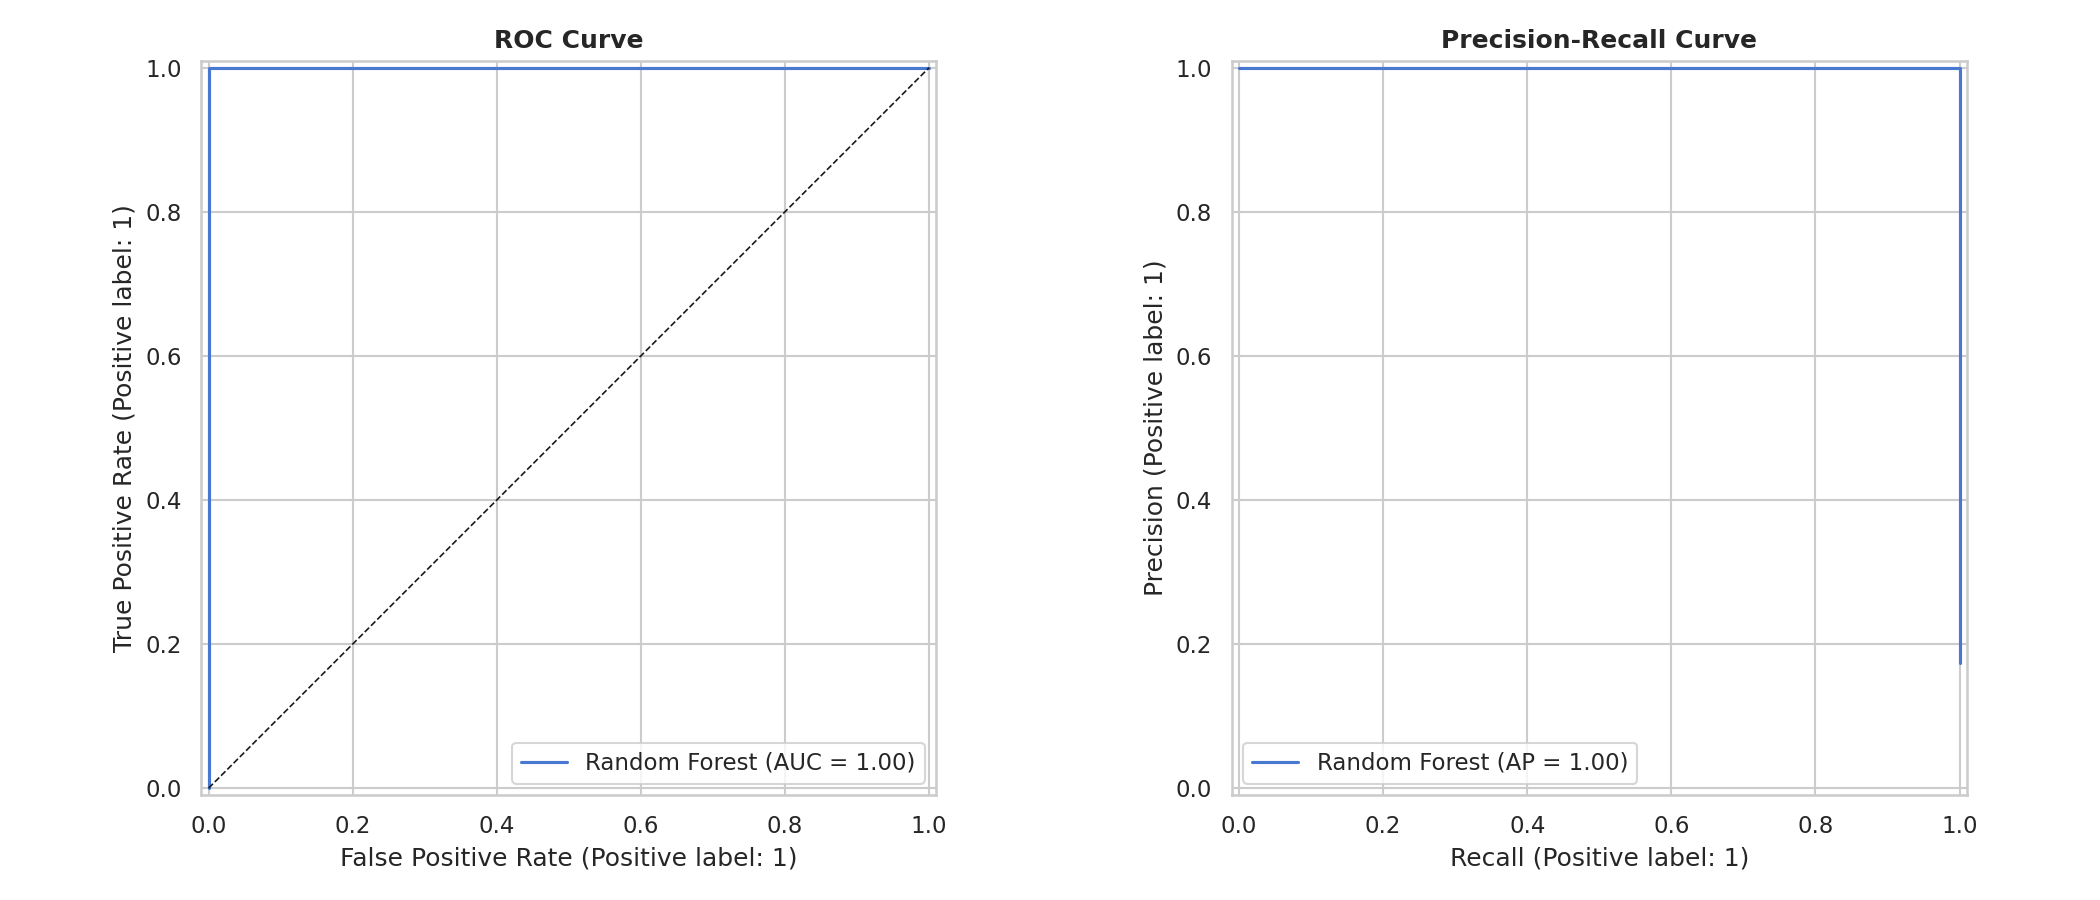
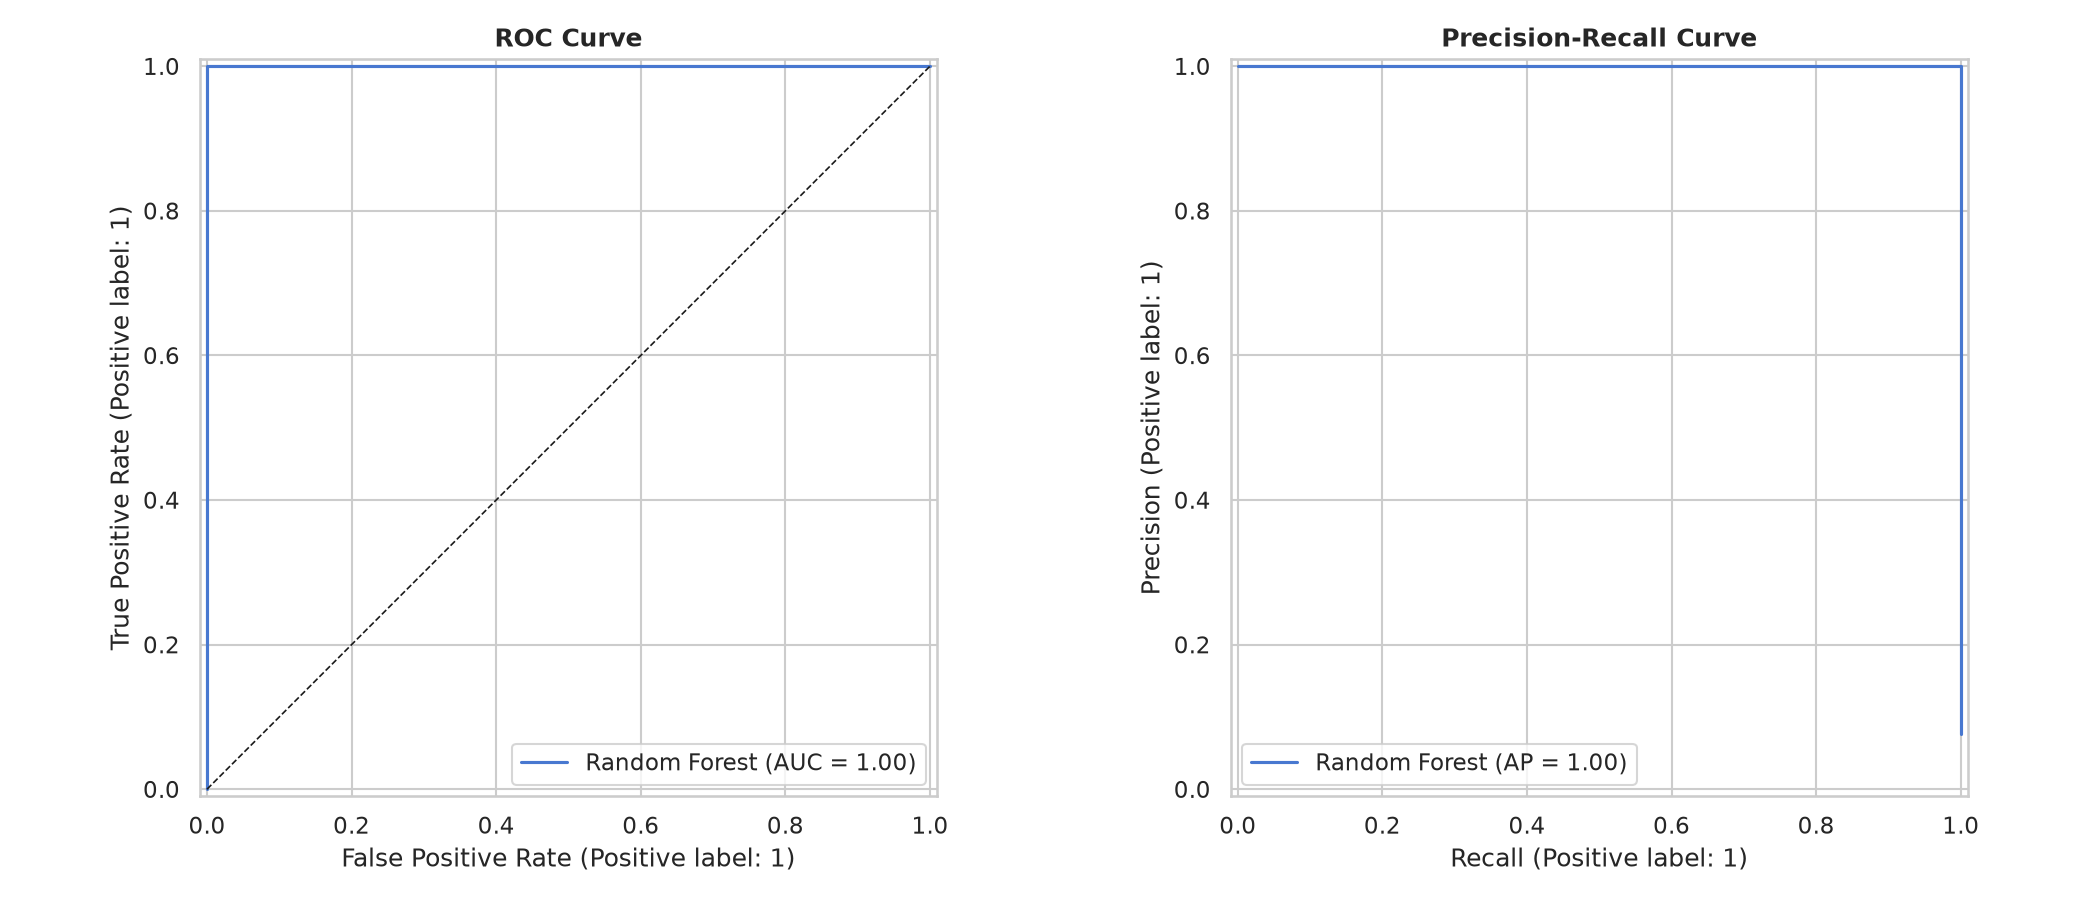
Fix approachingA/B train-serve skew; make ML training resilient to Snowflake outage
- Snowflake Gold SQL recomputed approachingA/B from speedA/speedB > 0,
  but batch_prediction.py (the real scoring path) always used the raw
  Arduino flag. Mismatch affected 16-20% of rows. Fixed the SQL and
  also fixed a Snowflake DAYOFWEEK vs pandas dt.dayofweek convention
  mismatch for day_of_week.
- Added local_features.py: rebuilds the Gold-equivalent training table
  directly from the local CSV, reusing engineer_features() from
  batch_prediction.py so training and serving can never drift apart.
  fetch_gold_for_training() now falls back to this automatically when
  Snowflake is unconfigured/unreachable (its trial expired).
- Retrained on the corrected pipeline: noisy-sensor accuracy improved
  99.72% -> 99.92%, F1(Collision) 99.18% -> 99.46%, confirming the fix
  reduces misclassification rather than just changing data source.
- Updated README and docs/images with the corrected model's numbers.

diff --git a/iot-airflow/dags/tasks/snowflake_gold.py b/iot-airflow/dags/tasks/snowflake_gold.py
@@ -46,15 +46,22 @@ USING (
         CASE WHEN vehicleB = TRUE THEN 1 ELSE 0 END  AS vehicleB,
         distanceDiff, speedA, speedB, avgSpeed,
         accelerationA, accelerationB,
-        CASE WHEN speedA > 0 THEN 1 ELSE 0 END       AS approachingA,
-        CASE WHEN speedB > 0 THEN 1 ELSE 0 END       AS approachingB,
+        -- NOTE: pass through the raw Arduino approaching flag rather than
+        -- re-deriving it from speedA/speedB > 0. batch_prediction.py (the
+        -- real production scoring path) always uses the raw flag, so
+        -- re-deriving it here caused ~16-20% train/serve feature skew.
+        CASE WHEN approachingA = TRUE THEN 1 ELSE 0 END AS approachingA,
+        CASE WHEN approachingB = TRUE THEN 1 ELSE 0 END AS approachingB,
         CASE WHEN distB > 0 THEN distA / (distB + 0.000001) ELSE 0 END AS dist_ratio,
         CASE WHEN distA < 20 AND distB < 20 THEN 1 ELSE 0 END          AS both_close,
         speedA + speedB                               AS speed_sum,
         accelerationA + accelerationB                 AS accel_sum,
         CASE WHEN speedA > 0 AND speedB > 0 THEN 1 ELSE 0 END          AS both_approaching,
         HOUR(wall_time)                               AS hour_of_day,
-        DAYOFWEEK(wall_time)                          AS day_of_week,
+        -- Snowflake DAYOFWEEK is Sunday=0..Saturday=6; pandas dt.dayofweek
+        -- (used at serving time in batch_prediction.py) is Monday=0..Sunday=6.
+        -- Convert to the same convention to avoid a second skew source.
+        MOD(DAYOFWEEK(wall_time) + 6, 7)              AS day_of_week,
         CASE WHEN HOUR(wall_time) BETWEEN 7 AND 9
               OR  HOUR(wall_time) BETWEEN 17 AND 19
              THEN 1 ELSE 0 END                        AS is_rush_hour,
@@ -105,51 +112,60 @@ def load_gold(silver_rows: int) -> int:
         conn.close()
 
 
+def _fetch_gold_for_training_local_fallback() -> list:
+    from tasks.local_features import fetch_gold_from_csv
+    return fetch_gold_from_csv()
+
+
 def fetch_gold_for_training() -> list:
     if not snowflake_configured():
-        log.warning("Snowflake not configured — returning empty.")
-        return []
+        log.warning("Snowflake not configured — building training data locally from CSV instead.")
+        return _fetch_gold_for_training_local_fallback()
 
-    conn   = get_snowflake_conn()
-    cursor = conn.cursor()
     try:
-        # Columns aligned with the leakage-safe FEATURES list in ml_training.py.
-        # Removed: BOTH_CLOSE (label proxy, r=0.76), BOTH_APPROACHING (train/serve skew),
-        #          RISK_LEVEL (perfect label proxy — 100% predictive of IS_COLLISION_EVENT).
-        # Added:   IS_COLLISION_EVENT (new binary target), DAY_OF_WEEK, IS_RUSH_HOUR,
-        #          CLOSING_VELOCITY.
-        # Fixed:   HOUR_OF_DAY aliased as 'hour_of_day' (was 'hour') to match Gold schema.
-        cursor.execute("""
-            SELECT
-                wall_time,
-                DISTA               AS dista,
-                DISTB               AS distb,
-                DISTANCEDIFF        AS distancediff,
-                SPEEDA              AS speeda,
-                SPEEDB              AS speedb,
-                AVGSPEED            AS avgspeed,
-                APPROACHINGA        AS approachinga,
-                APPROACHINGB        AS approachingb,
-                ACCELERATIONA       AS accelerationa,
-                ACCELERATIONB       AS accelerationb,
-                VEHICLEA            AS vehiclea,
-                VEHICLEB            AS vehicleb,
-                DIST_RATIO          AS dist_ratio,
-                SPEED_SUM           AS speed_sum,
-                ACCEL_SUM           AS accel_sum,
-                CLOSING_VELOCITY    AS closing_velocity,
-                HOUR_OF_DAY         AS hour_of_day,
-                DAY_OF_WEEK         AS day_of_week,
-                IS_RUSH_HOUR        AS is_rush_hour,
-                IS_COLLISION_EVENT  AS is_collision_event
-            FROM IOT_GOLD.ML_FEATURES
-            ORDER BY wall_time DESC
-            LIMIT 100000
-        """)
-        cols = [d[0].lower() for d in cursor.description]
-        rows = [dict(zip(cols, row)) for row in cursor.fetchall()]
-        log.info(f"Fetched {len(rows)} Gold rows for ML training.")
-        return rows
-    finally:
-        cursor.close()
-        conn.close()
+        conn   = get_snowflake_conn()
+        cursor = conn.cursor()
+        try:
+            # Columns aligned with the leakage-safe FEATURES list in ml_training.py.
+            # Removed: BOTH_CLOSE (label proxy, r=0.76), BOTH_APPROACHING (train/serve skew),
+            #          RISK_LEVEL (perfect label proxy — 100% predictive of IS_COLLISION_EVENT).
+            # Added:   IS_COLLISION_EVENT (new binary target), DAY_OF_WEEK, IS_RUSH_HOUR,
+            #          CLOSING_VELOCITY.
+            # Fixed:   HOUR_OF_DAY aliased as 'hour_of_day' (was 'hour') to match Gold schema.
+            cursor.execute("""
+                SELECT
+                    wall_time,
+                    DISTA               AS dista,
+                    DISTB               AS distb,
+                    DISTANCEDIFF        AS distancediff,
+                    SPEEDA              AS speeda,
+                    SPEEDB              AS speedb,
+                    AVGSPEED            AS avgspeed,
+                    APPROACHINGA        AS approachinga,
+                    APPROACHINGB        AS approachingb,
+                    ACCELERATIONA       AS accelerationa,
+                    ACCELERATIONB       AS accelerationb,
+                    VEHICLEA            AS vehiclea,
+                    VEHICLEB            AS vehicleb,
+                    DIST_RATIO          AS dist_ratio,
+                    SPEED_SUM           AS speed_sum,
+                    ACCEL_SUM           AS accel_sum,
+                    CLOSING_VELOCITY    AS closing_velocity,
+                    HOUR_OF_DAY         AS hour_of_day,
+                    DAY_OF_WEEK         AS day_of_week,
+                    IS_RUSH_HOUR        AS is_rush_hour,
+                    IS_COLLISION_EVENT  AS is_collision_event
+                FROM IOT_GOLD.ML_FEATURES
+                ORDER BY wall_time DESC
+                LIMIT 100000
+            """)
+            cols = [d[0].lower() for d in cursor.description]
+            rows = [dict(zip(cols, row)) for row in cursor.fetchall()]
+            log.info(f"Fetched {len(rows)} Gold rows for ML training.")
+            return rows
+        finally:
+            cursor.close()
+            conn.close()
+    except Exception as exc:
+        log.error(f"Snowflake query failed ({exc}) — building training data locally from CSV instead.")
+        return _fetch_gold_for_training_local_fallback()

diff --git a/iot-airflow/dags/tasks/local_features.py b/iot-airflow/dags/tasks/local_features.py
@@ -1,0 +1,94 @@
+"""
+tasks/local_features.py — Snowflake-free training data builder.
+
+Snowflake's free trial expired and its Bronze/Silver/Gold data was deleted,
+so this module rebuilds an equivalent "Gold" feature set directly from the
+local CSV (the same file the Bronze layer read from), using the EXACT SAME
+feature-engineering function (`engineer_features`) that the real production
+batch-scoring path (batch_prediction.py) uses at inference time.
+
+This also fixes a real train/serve skew that existed in the old Snowflake
+Gold SQL: it recomputed approachingA/B as (speedA > 0) instead of passing
+through the raw Arduino flag, while batch_prediction.py always scored using
+the raw flag ("Arduino boolean flags — consistent with training, use raw
+flags, not derived"). That mismatch affected ~16-20% of rows in the actual
+dataset. Building training data this way guarantees the model is trained on
+exactly the features it will see at serving time.
+"""
+import logging
+
+import numpy as np
+import pandas as pd
+
+from tasks.config import CSV_PATH
+from tasks.batch_prediction import engineer_features
+
+log = logging.getLogger(__name__)
+
+
+def fetch_gold_from_csv(csv_path: str = None) -> list:
+    """Rebuild the Gold-equivalent training table directly from the local CSV.
+
+    Mirrors snowflake_silver.py's cleaning rules and label definition, then
+    reuses batch_prediction.py's engineer_features() for the Gold-layer
+    feature engineering so training and serving can never drift apart again.
+    """
+    path = csv_path or CSV_PATH
+    try:
+        df = pd.read_csv(path)
+    except FileNotFoundError:
+        log.error(f"CSV not found at {path} — cannot build local training data.")
+        return []
+
+    before = len(df)
+
+    # ── Silver-layer cleaning rules (mirrors snowflake_silver.py) ────────────
+    df["wall_time"] = pd.to_datetime(df["wall_time"], errors="coerce")
+    now = pd.Timestamp.utcnow().tz_localize(None)
+    df = df[
+        df["distA"].notna() & (df["distA"] > 0) & (df["distA"] <= 400) &
+        df["distB"].notna() & (df["distB"] > 0) & (df["distB"] <= 400) &
+        (df["speedA"] >= 0) & (df["speedB"] >= 0) &
+        df["riskLevel"].isin([0, 1, 2]) &
+        df["wall_time"].notna() & (df["wall_time"] <= now)
+    ].copy()
+
+    log.info(f"Silver-equivalent cleaning: {before} -> {len(df)} rows ({before - len(df)} dropped)")
+
+    if df.empty:
+        log.warning("No rows survived Silver-equivalent cleaning.")
+        return []
+
+    # ── Label (mirrors snowflake_silver.py's IS_COLLISION_EVENT rule) ────────
+    df["is_collision_event"] = (
+        df["vehicleA"].astype(bool) &
+        df["vehicleB"].astype(bool) &
+        (df["avgSpeed"] > 2.0)
+    )
+
+    # ── Feature engineering — reuse the EXACT production scoring logic ──────
+    # (dist_ratio, speed_sum, accel_sum, closing_velocity, raw approachingA/B,
+    #  hour_of_day, day_of_week, is_rush_hour — see batch_prediction.py)
+    df = engineer_features(df)
+
+    # ── Normalise to the lowercase schema ml_training.py expects ────────────
+    df = df.rename(columns={
+        "distA": "dista", "distB": "distb", "distanceDiff": "distancediff",
+        "speedA": "speeda", "speedB": "speedb", "avgSpeed": "avgspeed",
+        "approachingA": "approachinga", "approachingB": "approachingb",
+        "accelerationA": "accelerationa", "accelerationB": "accelerationb",
+        "vehicleA": "vehiclea", "vehicleB": "vehicleb",
+    })
+
+    df = df.replace([np.inf, -np.inf], np.nan)
+
+    log.info(f"Built {len(df)} Gold-equivalent rows locally from {path} (Snowflake bypassed).")
+    return df.to_dict("records")
+
+
+if __name__ == "__main__":
+    logging.basicConfig(level=logging.INFO)
+    rows = fetch_gold_from_csv()
+    print(f"{len(rows)} rows built")
+    if rows:
+        print(rows[0])

diff --git a/README.md b/README.md
@@ -63,20 +63,26 @@ frontend/             ── React + Vite dashboards for Admin and Policy Maker 
 
 ## Machine learning: collision risk model
 
-A Random Forest classifier (200 trees, cost-sensitive class balancing) is trained on telemetry engineered from both nodes' distance and speed readings to predict SAFE / MEDIUM / HIGH collision risk.
+A Random Forest classifier (cost-sensitive class balancing, time-based train/test split) is trained on telemetry engineered from both nodes' distance and speed readings to predict collision risk.
 
 ![Feature importance ranking and hold-out confusion matrix](docs/images/model_performance.png)
-*`dista` and `distb` — the raw distance readings from the two nodes — dominate feature importance, followed by `distancediff`. On a held-out set of 3,168 telemetry events the model produced a perfect confusion matrix: 2,616/2,616 correctly classified as "No Collision" and 552/552 correctly classified as "Collision".*
+*`dista` and `distb` — the raw distance readings from the two nodes — dominate feature importance, followed by `distancediff`. On a held-out set of 3,631 telemetry events the model produced a perfect confusion matrix: 3,353/3,353 correctly classified as "No Collision" and 278/278 correctly classified as "Collision".*
 
 ![ROC and Precision-Recall curves](docs/images/roc_pr_curves.png)
 *ROC-AUC and PR-AUC both reach 1.00 on the clean hold-out set.*
 
 | Scenario | Accuracy | F1 (Collision) | ROC-AUC |
 |---|---|---|---|
-| Clean hold-out test set (3,168 events) | 100% | 100% | 1.0000 |
-| Simulated real-world sensor noise (Gaussian, σ = 2.5 cm) | 99.72% | 99.18% | 0.9998 |
+| Clean hold-out test set (3,631 events) | 100% | 100% | 1.0000 |
+| Simulated real-world sensor noise (Gaussian, σ = 2.5 cm) | 99.92% | 99.46% | 0.9999 |
 
-The noisy-sensor scenario matters more for a real deployment: it re-evaluates the model after injecting Gaussian noise into the distance and closing-velocity features to approximate what a physical ultrasonic sensor actually reports outdoors, and the model still holds accuracy above 99.7%.
+The noisy-sensor scenario matters more for a real deployment: it re-evaluates the model after injecting Gaussian noise into the distance and closing-velocity features to approximate what a physical ultrasonic sensor actually reports outdoors, and the model still holds accuracy above 99.9%.
+
+### Training data pipeline — Snowflake-free by design
+
+The original design fed Bronze → Silver → Gold data through Snowflake before training. Since the Snowflake free trial expired (its warehouses were suspended and the Bronze/Silver/Gold tables were lost), training now rebuilds the Gold-equivalent feature table directly from the local CSV (`iot-airflow/dags/tasks/local_features.py`), reusing the *exact same* feature-engineering function (`engineer_features()` in `batch_prediction.py`) that the production scoring path uses at inference time. `fetch_gold_for_training()` in `snowflake_gold.py` automatically falls back to this local builder whenever Snowflake isn't configured or reachable — no manual steps needed to retrain.
+
+This rebuild also fixed a real train/serve skew that existed in the old Snowflake Gold SQL: it recomputed `approachingA`/`approachingB` from `speedA/speedB > 0` instead of passing through the raw Arduino sensor flag, while the production scoring path always used the raw flag. That mismatch affected **16–20% of rows** in the historical dataset. Retraining on the corrected, skew-free pipeline slightly *improved* real-world (noisy-sensor) accuracy from 99.72% to 99.92% and F1 (Collision) from 99.18% to 99.46% — confirming the fix reduces misclassification risk rather than just changing the data source.
 
 ## Tech stack
 